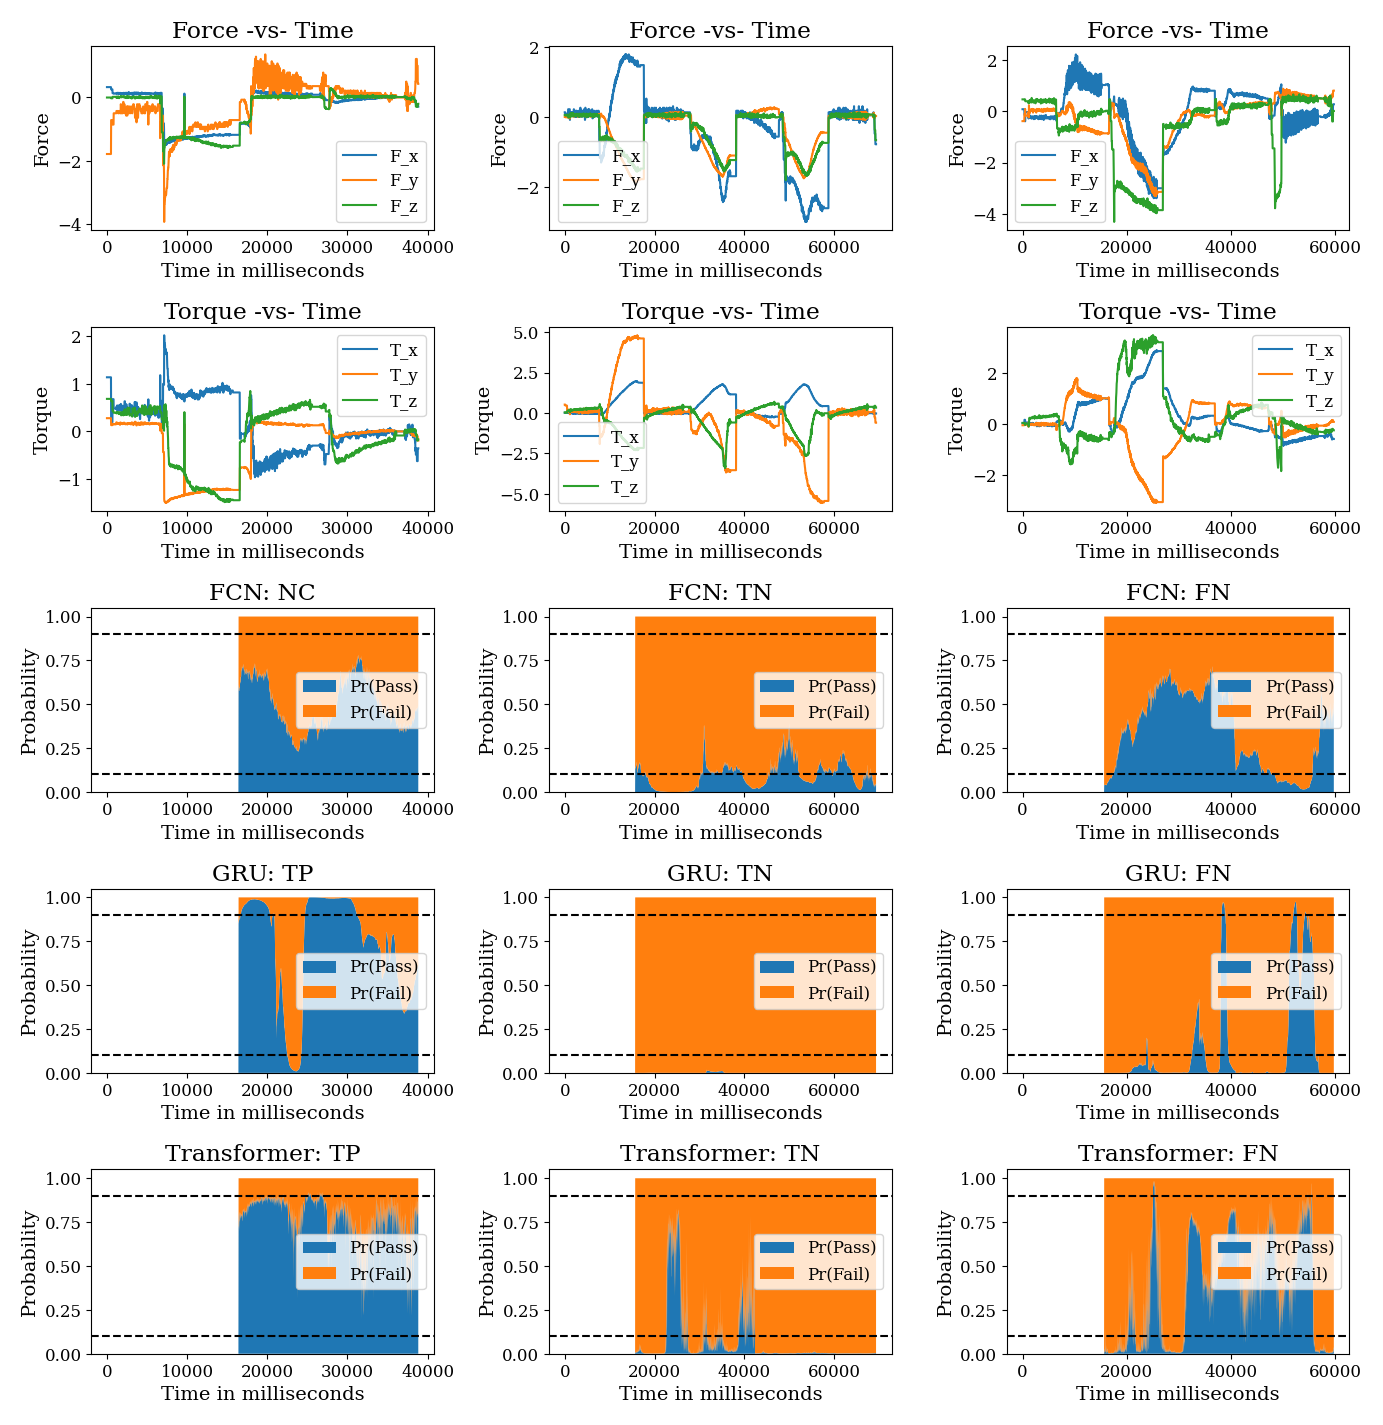
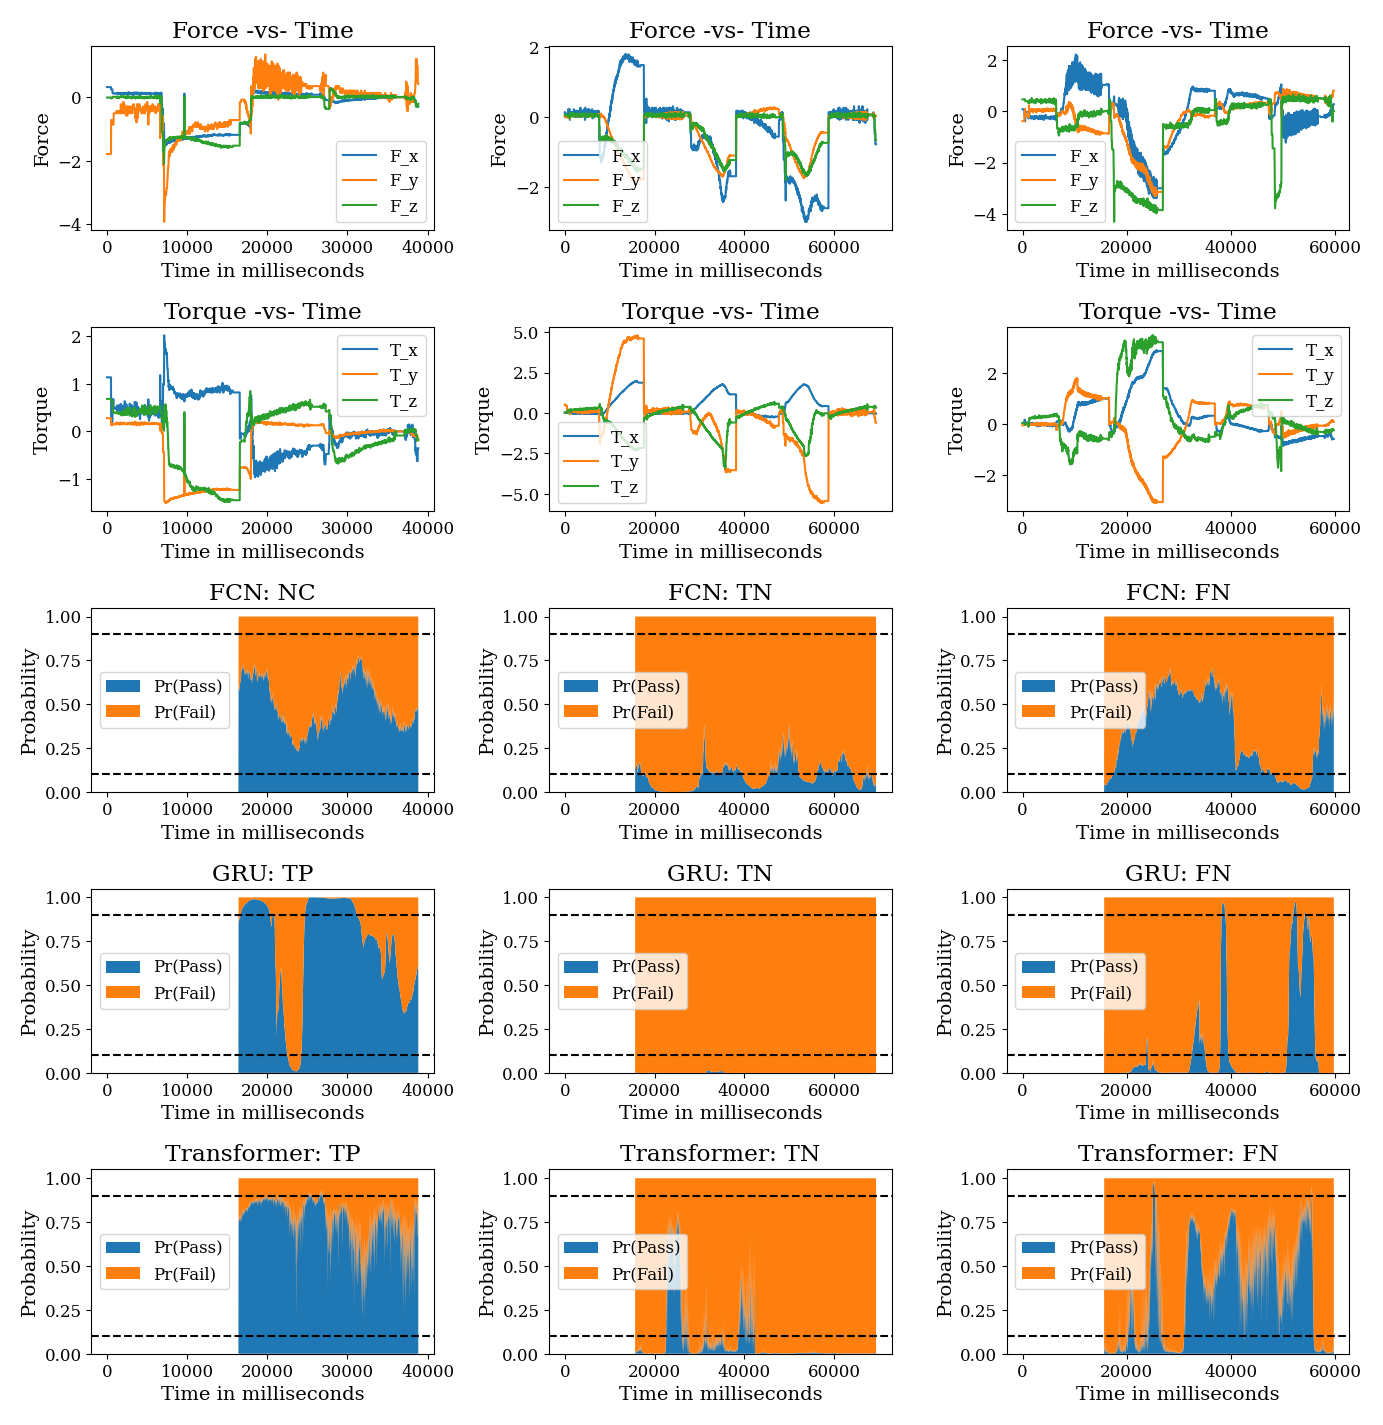
small fixes and run on 100% confidence

diff --git a/src/runners/run_makespan_simulation.py b/src/runners/run_makespan_simulation.py
@@ -73,15 +73,15 @@ def run_makespan_simulation(models_to_run: dict, data: list, confidence: float, 
                 res[f'{model_name}_{int(confidence*100)}'] = {'metrics': {}, 'conf_mat': {}, 'times': {}, 'makespan_sim_hist': [], 'makespan_sim_avg': -1, 'makespan_sim_std': -1}
             print(f'====> Updating expected makespan from equation for {model_name}:')
             res[model_name]['metrics']['EMS'] = abs(monitored_makespan(
-                MTS=res[f'{model_name}_{int(confidence*100)}']['metrics']['MTS'],
-                MTF=res[f'{model_name}_{int(confidence*100)}']['metrics']['MTF'],
-                MTN=res[f'{model_name}_{int(confidence*100)}']['metrics']['MTN'],
-                P_TP=res[f'{model_name}_{int(confidence*100)}']['metrics']['P_TP'],
-                P_FN=res[f'{model_name}_{int(confidence*100)}']['metrics']['P_FN'],
-                P_TN=res[f'{model_name}_{int(confidence*100)}']['metrics']['P_TN'],
-                P_FP=res[f'{model_name}_{int(confidence*100)}']['metrics']['P_FP'],
-                P_NCF=res[f'{model_name}_{int(confidence*100)}']['metrics']['P_NCF'],
-                P_NCS=res[f'{model_name}_{int(confidence*100)}']['metrics']['P_NCS']
+                MTS=float(res[f'{model_name}_{int(confidence*100)}']['metrics']['MTS']) if res[f'{model_name}_{int(confidence*100)}']['metrics']['MTS'] != 'N/A' else 0,
+                MTF=float(res[f'{model_name}_{int(confidence*100)}']['metrics']['MTF']) if res[f'{model_name}_{int(confidence*100)}']['metrics']['MTF'] != 'N/A' else 0,
+                MTN=float(res[f'{model_name}_{int(confidence*100)}']['metrics']['MTN']) if res[f'{model_name}_{int(confidence*100)}']['metrics']['MTN'] != 'N/A' else 0,
+                P_TP=float(res[f'{model_name}_{int(confidence*100)}']['metrics']['P_TP']) if res[f'{model_name}_{int(confidence*100)}']['metrics']['P_TP'] != 'N/A' else 0,
+                P_FN=float(res[f'{model_name}_{int(confidence*100)}']['metrics']['P_FN']) if res[f'{model_name}_{int(confidence*100)}']['metrics']['P_FN'] != 'N/A' else 0,
+                P_TN=float(res[f'{model_name}_{int(confidence*100)}']['metrics']['P_TN']) if res[f'{model_name}_{int(confidence*100)}']['metrics']['P_TN'] != 'N/A' else 0,
+                P_FP=float(res[f'{model_name}_{int(confidence*100)}']['metrics']['P_FP']) if res[f'{model_name}_{int(confidence*100)}']['metrics']['P_FP'] != 'N/A' else 0,
+                P_NCF=float(res[f'{model_name}_{int(confidence*100)}']['metrics']['P_NCF']) if res[f'{model_name}_{int(confidence*100)}']['metrics']['P_NCS'] != 'N/A' else 0,
+                P_NCS=float(res[f'{model_name}_{int(confidence*100)}']['metrics']['P_NCS']) if res[f'{model_name}_{int(confidence*100)}']['metrics']['P_NCF'] != 'N/A' else 0
             ))
 
     print(f'res = {res}\n')
@@ -110,68 +110,68 @@ if __name__ == '__main__':
         print( f"\t{dev}" )
         print
 
-    print('LOADING MODELS...')
-    makespan_models = {}
-    if 'FCN' in MODELS_TO_RUN:
-        load_keras_model(model_name='FCN', makespan_models=makespan_models)
+    # print('LOADING MODELS...')
+    # makespan_models = {}
+    # if 'FCN' in MODELS_TO_RUN:
+    #     load_keras_model(model_name='FCN', makespan_models=makespan_models)
 
-    if 'RNN' in MODELS_TO_RUN:
-        load_keras_model(model_name='RNN', makespan_models=makespan_models)
+    # if 'RNN' in MODELS_TO_RUN:
+    #     load_keras_model(model_name='RNN', makespan_models=makespan_models)
 
-    if 'OOP_Transformer' in MODELS_TO_RUN:
-        oop_transformer = OOPTransformer()
-        num_layers = 4
-        d_model = 6
-        ff_dim = 256
-        num_heads = 8
-        head_size = 256
-        dropout_rate = 0.2
-        mlp_dropout = 0.4
-        mlp_units = [128, 256, 64]
+    # if 'OOP_Transformer' in MODELS_TO_RUN:
+    #     oop_transformer = OOPTransformer()
+    #     num_layers = 4
+    #     d_model = 6
+    #     ff_dim = 256
+    #     num_heads = 8
+    #     head_size = 256
+    #     dropout_rate = 0.2
+    #     mlp_dropout = 0.4
+    #     mlp_units = [128, 256, 64]
 
-        oop_transformer.build(
-            X_sample=X_train_sampled[:64],
-            num_layers=num_layers,
-            d_model=d_model,
-            ff_dim=ff_dim,
-            num_heads=num_heads,
-            head_size=head_size,
-            dropout_rate=dropout_rate,
-            mlp_dropout=mlp_dropout,
-            mlp_units=mlp_units,
-            verbose=False
-        )
-        oop_transformer.compile()
-        load_keras_weights(model_build=oop_transformer, model_name='OOP_Transformer', makespan_models=makespan_models)
+    #     oop_transformer.build(
+    #         X_sample=X_train_sampled[:64],
+    #         num_layers=num_layers,
+    #         d_model=d_model,
+    #         ff_dim=ff_dim,
+    #         num_heads=num_heads,
+    #         head_size=head_size,
+    #         dropout_rate=dropout_rate,
+    #         mlp_dropout=mlp_dropout,
+    #         mlp_units=mlp_units,
+    #         verbose=False
+    #     )
+    #     oop_transformer.compile()
+    #     load_keras_weights(model_build=oop_transformer, model_name='OOP_Transformer', makespan_models=makespan_models)
 
-    if 'OOP_Transformer_small' in MODELS_TO_RUN:
-        oop_transformer_small = OOPTransformer()
-        num_layers = 4
-        d_model = 6
-        ff_dim = 256
-        num_heads = 4
-        head_size = 128
-        dropout_rate = 0.2
-        mlp_dropout = 0.4
-        mlp_units = [128]
+    # if 'OOP_Transformer_small' in MODELS_TO_RUN:
+    #     oop_transformer_small = OOPTransformer()
+    #     num_layers = 4
+    #     d_model = 6
+    #     ff_dim = 256
+    #     num_heads = 4
+    #     head_size = 128
+    #     dropout_rate = 0.2
+    #     mlp_dropout = 0.4
+    #     mlp_units = [128]
 
-        oop_transformer_small.build(
-            X_sample=X_train_sampled[:64],
-            num_layers=num_layers,
-            d_model=d_model,
-            ff_dim=ff_dim,
-            num_heads=num_heads,
-            head_size=head_size,
-            dropout_rate=dropout_rate,
-            mlp_dropout=mlp_dropout,
-            mlp_units=mlp_units,
-            verbose=False
-        )
-        oop_transformer_small.compile()
-        load_keras_weights(model_build=oop_transformer_small, model_name='OOP_Transformer_small', makespan_models=makespan_models)
+    #     oop_transformer_small.build(
+    #         X_sample=X_train_sampled[:64],
+    #         num_layers=num_layers,
+    #         d_model=d_model,
+    #         ff_dim=ff_dim,
+    #         num_heads=num_heads,
+    #         head_size=head_size,
+    #         dropout_rate=dropout_rate,
+    #         mlp_dropout=mlp_dropout,
+    #         mlp_units=mlp_units,
+    #         verbose=False
+    #     )
+    #     oop_transformer_small.compile()
+    #     load_keras_weights(model_build=oop_transformer_small, model_name='OOP_Transformer_small', makespan_models=makespan_models)
 
-    _ = run_makespan_simulation(
-        models_to_run=makespan_models,
-        data_mode='load_data',
-        compute=False
-    )
+    # _ = run_makespan_simulation(
+    #     models_to_run=makespan_models,
+    #     data_mode='load_data',
+    #     compute=False
+    # )

diff --git a/src/runners/main_runner.py b/src/runners/main_runner.py
@@ -273,11 +273,11 @@ if __name__ == '__main__':
 
     sim_models = {
         'FCN': makespan_models['FCN'],
-        'RNN': makespan_models['RNN'],
+        # 'RNN': makespan_models['RNN'],
         'GRU': makespan_models['GRU'],
-        'LSTM': makespan_models['LSTM'],
+        # 'LSTM': makespan_models['LSTM'],
         'Transformer': makespan_models['OOP_Transformer_small'],
-        'Transformer_big': makespan_models['OOP_Transformer']
+        # 'Transformer_big': makespan_models['OOP_Transformer']
     }
     plot_models = {
         'FCN': makespan_models['FCN'],
@@ -288,7 +288,8 @@ if __name__ == '__main__':
         # 'Transformer_big': makespan_models['OOP_Transformer']
     }
 
-    confidence_list = [0.85, 0.9, 0.95, 0.99]
+    # confidence_list = [0.85, 0.9, 0.95, 0.99]
+    confidence_list = [1]
 
     # To get equation makespan:
     get_eq_makespan = False
@@ -306,8 +307,8 @@ if __name__ == '__main__':
                 )
 
     # To get simulated makespan:
-    run_simulation = False
-    sim_results = {k: {} for k in confidence_list.keys()}
+    run_simulation = True
+    sim_results = {k: {} for k in confidence_list}
     for confidence in confidence_list:
         if run_simulation:
             sim_results[confidence] = run_makespan_simulation(
@@ -315,11 +316,10 @@ if __name__ == '__main__':
                 data=test_data,
                 n_simulations = 500,
                 confidence=confidence,
-                compute=True
+                compute=False
             )
 
             plot_simulation_makespans(
-                res=sim_results[confidence],
                 models=plot_models,
                 confidence=confidence,
                 reactive_mks=react_mks[:150],
@@ -327,29 +327,30 @@ if __name__ == '__main__':
                 save_plots=True
             )
 
-    for confidence in confidence_list:
-        for i, model_name in enumerate(sim_models.keys()):
-            if sim_results[confidence][f'{model_name}_{int(confidence*100)}']['metrics']['EMS'] == 'N/A':
-                data_table[0][i+2] = 'N/A'
-            else:
-                data_table[0][i+2] = sim_results[confidence][f'{model_name}_{int(confidence*100)}']['makespan_sim_avg']
-            data_table[1][i+2] = sim_results[confidence][f'{model_name}_{int(confidence*100)}']['metrics']['EMS']
-            data_table[2][i+2] = sim_results[confidence][f'{model_name}_{int(confidence*100)}']['metrics']['MTS']
-            data_table[3][i+2] = sim_results[confidence][f'{model_name}_{int(confidence*100)}']['metrics']['MTF']
-            data_table[4][i+2] = sim_results[confidence][f'{model_name}_{int(confidence*100)}']['metrics']['MTP']
-            data_table[5][i+2] = sim_results[confidence][f'{model_name}_{int(confidence*100)}']['metrics']['MTN']
-            data_table[6][i+2] = sim_results[confidence][f'{model_name}_{int(confidence*100)}']['metrics']['P_TP']
-            data_table[7][i+2] = sim_results[confidence][f'{model_name}_{int(confidence*100)}']['metrics']['P_FN']
-            data_table[8][i+2] = sim_results[confidence][f'{model_name}_{int(confidence*100)}']['metrics']['P_TN']
-            data_table[9][i+2] = sim_results[confidence][f'{model_name}_{int(confidence*100)}']['metrics']['P_FP']
-            data_table[10][i+2] = sim_results[confidence][f'{model_name}_{int(confidence*100)}']['metrics']['P_NCS']
-            data_table[11][i+2] = sim_results[confidence][f'{model_name}_{int(confidence*100)}']['metrics']['P_NCF']
+    if run_simulation:
+        for confidence in confidence_list:
+            for i, model_name in enumerate(sim_models.keys()):
+                if sim_results[confidence][f'{model_name}_{int(confidence*100)}']['metrics']['EMS'] == 'N/A':
+                    data_table[0][i+2] = 'N/A'
+                else:
+                    data_table[0][i+2] = sim_results[confidence][f'{model_name}_{int(confidence*100)}']['makespan_sim_avg']
+                data_table[1][i+2] = sim_results[confidence][f'{model_name}_{int(confidence*100)}']['metrics']['EMS']
+                data_table[2][i+2] = sim_results[confidence][f'{model_name}_{int(confidence*100)}']['metrics']['MTS']
+                data_table[3][i+2] = sim_results[confidence][f'{model_name}_{int(confidence*100)}']['metrics']['MTF']
+                data_table[4][i+2] = sim_results[confidence][f'{model_name}_{int(confidence*100)}']['metrics']['MTP']
+                data_table[5][i+2] = sim_results[confidence][f'{model_name}_{int(confidence*100)}']['metrics']['MTN']
+                data_table[6][i+2] = sim_results[confidence][f'{model_name}_{int(confidence*100)}']['metrics']['P_TP']
+                data_table[7][i+2] = sim_results[confidence][f'{model_name}_{int(confidence*100)}']['metrics']['P_FN']
+                data_table[8][i+2] = sim_results[confidence][f'{model_name}_{int(confidence*100)}']['metrics']['P_TN']
+                data_table[9][i+2] = sim_results[confidence][f'{model_name}_{int(confidence*100)}']['metrics']['P_FP']
+                data_table[10][i+2] = sim_results[confidence][f'{model_name}_{int(confidence*100)}']['metrics']['P_NCS']
+                data_table[11][i+2] = sim_results[confidence][f'{model_name}_{int(confidence*100)}']['metrics']['P_NCF']
 
-        print(f'\nConfidence = {confidence}')
-        print(tabulate(data_table, headers=headers))
+            print(f'\nConfidence = {confidence}')
+            print(tabulate(data_table, headers=headers))
 
-    with open('../saved_data/simulation_results.json', 'w') as f:
-        json.dump(sim_results, f)
+        with open('../saved_data/simulation_results.json', 'w') as f:
+            json.dump(sim_results, f)
 
     # PLotting:
     # Plot 3 episode examples and their classifications by the FCN, GRU and Small Transformer

diff --git a/src/utilities/plot_classification_examples.py b/src/utilities/plot_classification_examples.py
@@ -121,7 +121,7 @@ def plot_ft_classification_for_model(model_names, models, episodes, confidence=0
             axes[j, i].stackplot(X, *L, labels=('Pr(Pass)', 'Pr(Fail)'), baseline='zero')
             axes[j, i].axhline(y=0.9, color='black', linestyle='--')
             axes[j, i].axhline(y=0.1, color='black', linestyle='--')
-            axes[j, i].legend()
+            axes[j, i].legend(loc='center left')
             axes[j, i].set_title(f'{model_name}: {ans}')
             axes[j, i].set_xlabel('Time in milliseconds')
             axes[j, i].set_ylabel('Probability')
